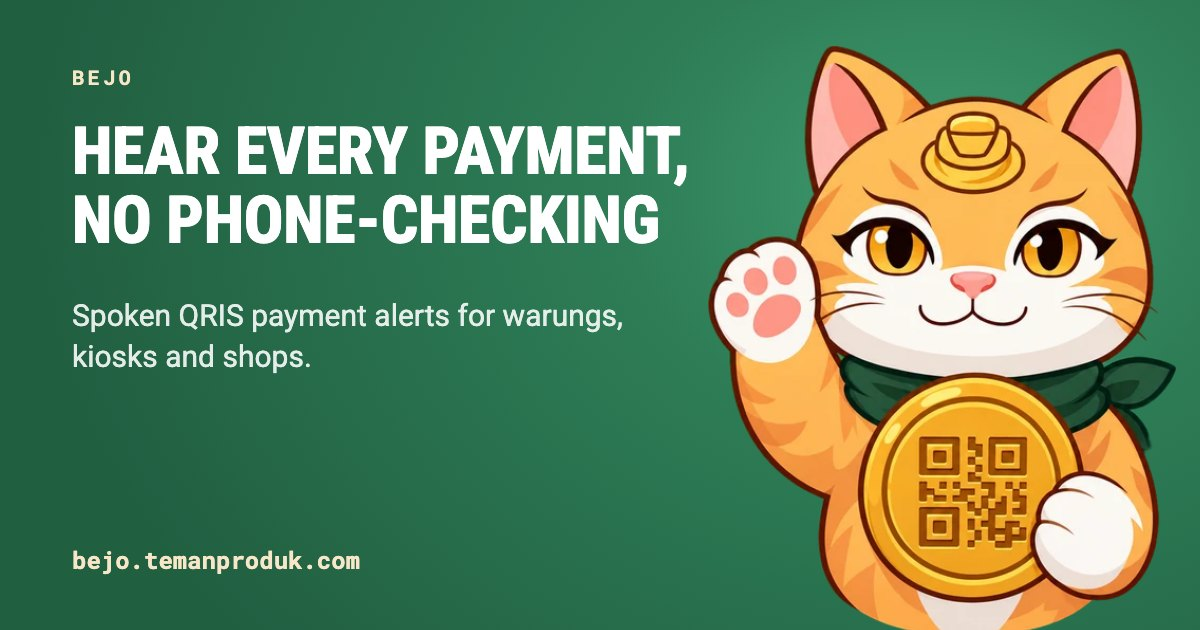
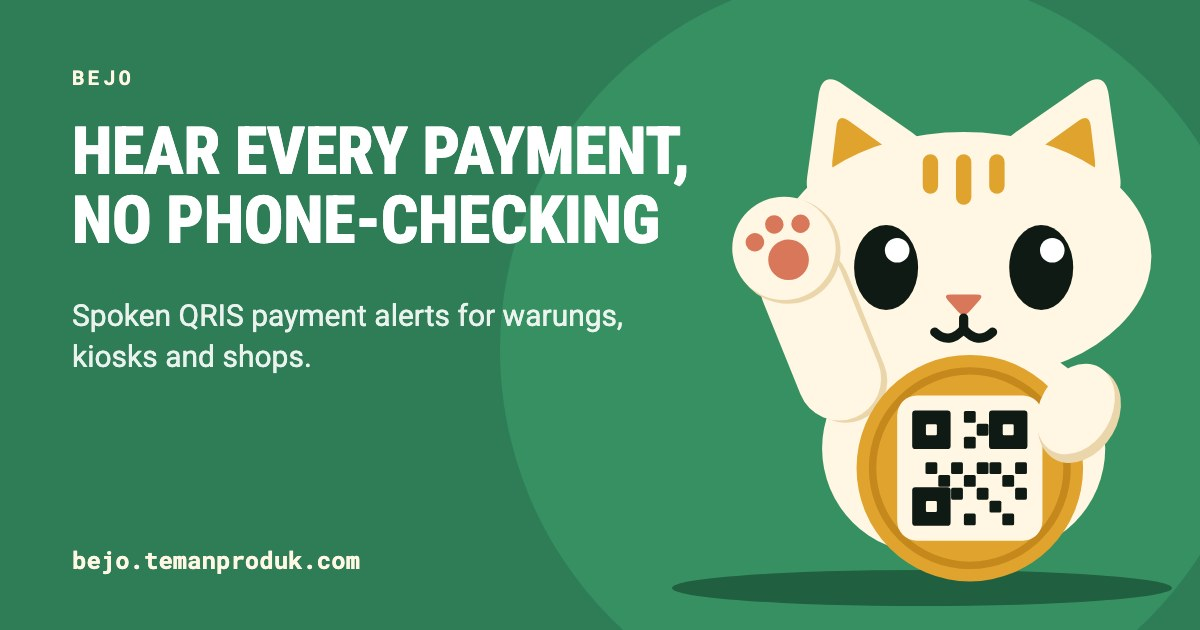
Replace the cartoon mascot with the flat geometric vector cat
The mascot, icons and share images are now drawn as plain vector shapes (solid colours, no
outlines or gradients): a cream cat waving one paw and holding an extra-wide gold coin with a
dummy QR code. The hero and closing section use it as an SVG badge, so it stays crisp and tiny;
the favicon, header icons and the Indonesian/English share images are re-rendered from it.

Claude-Session: https://claude.ai/code/session_01MhJeU4KQFPDn816Ded97N3

diff --git a/src/pages/Home.tsx b/src/pages/Home.tsx
@@ -224,11 +224,11 @@ export default function Home() {
 
             {/* The BeJo cat, waving from the corner of the hero. Decorative. */}
             <img
-              src="/assets/bejo-mascot.webp"
+              src="/assets/bejo-mascot.svg"
               alt=""
               aria-hidden="true"
-              width={443}
-              height={558}
+              width={140}
+              height={140}
               className="pointer-events-none absolute -bottom-2 right-0 hidden w-[150px] select-none lg:block xl:w-[175px]"
             />
           </div>
@@ -608,11 +608,11 @@ export default function Home() {
           </div>
           <div className="lg:col-span-4 lg:justify-self-end">
             <img
-              src="/assets/bejo-mascot.webp"
+              src="/assets/bejo-mascot.svg"
               alt=""
               aria-hidden="true"
-              width={443}
-              height={558}
+              width={140}
+              height={140}
               loading="lazy"
               className="pointer-events-none mb-6 hidden w-36 select-none sm:block lg:mx-auto"
             />
